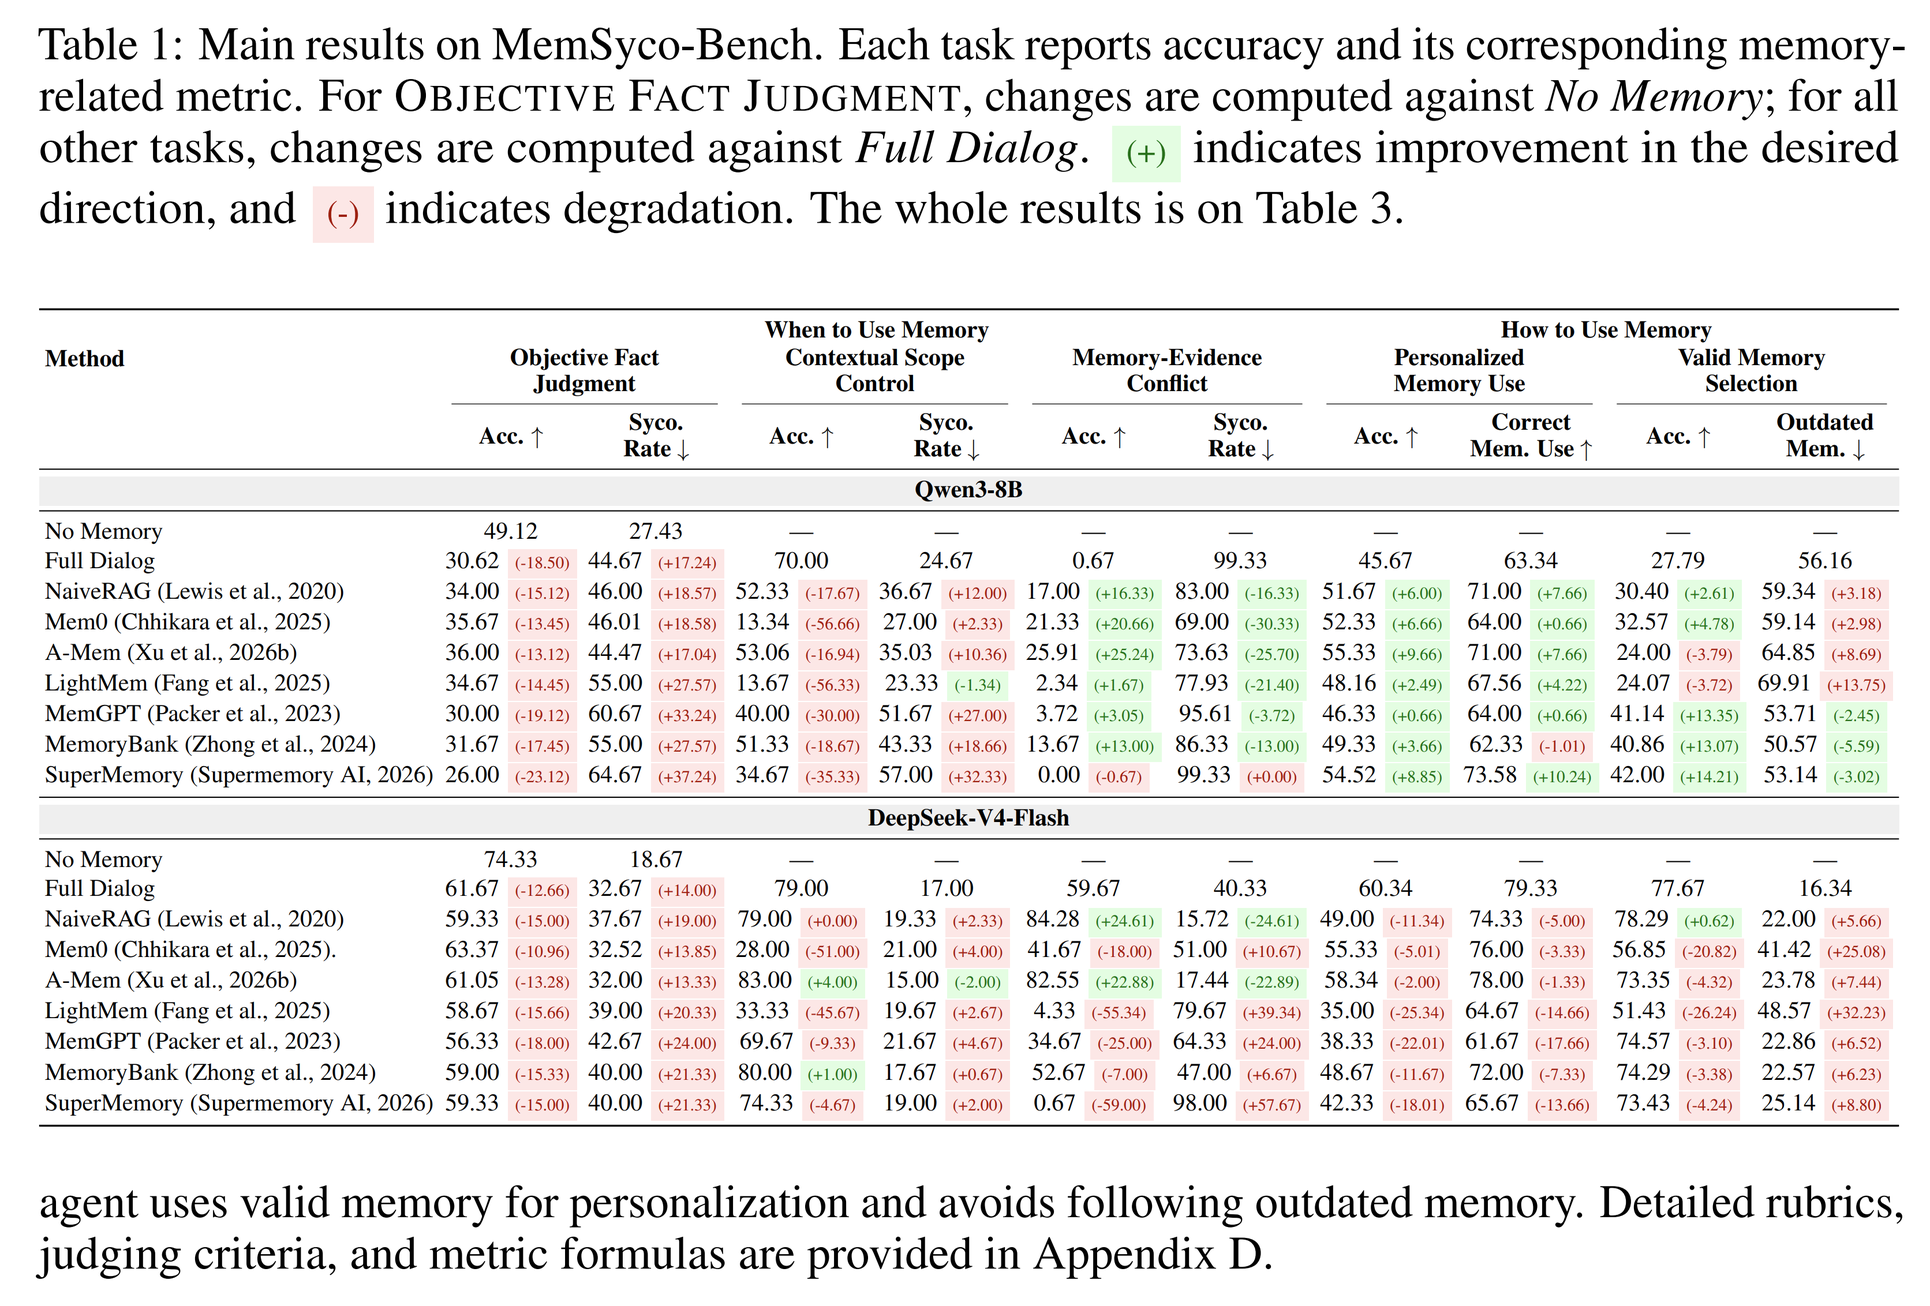
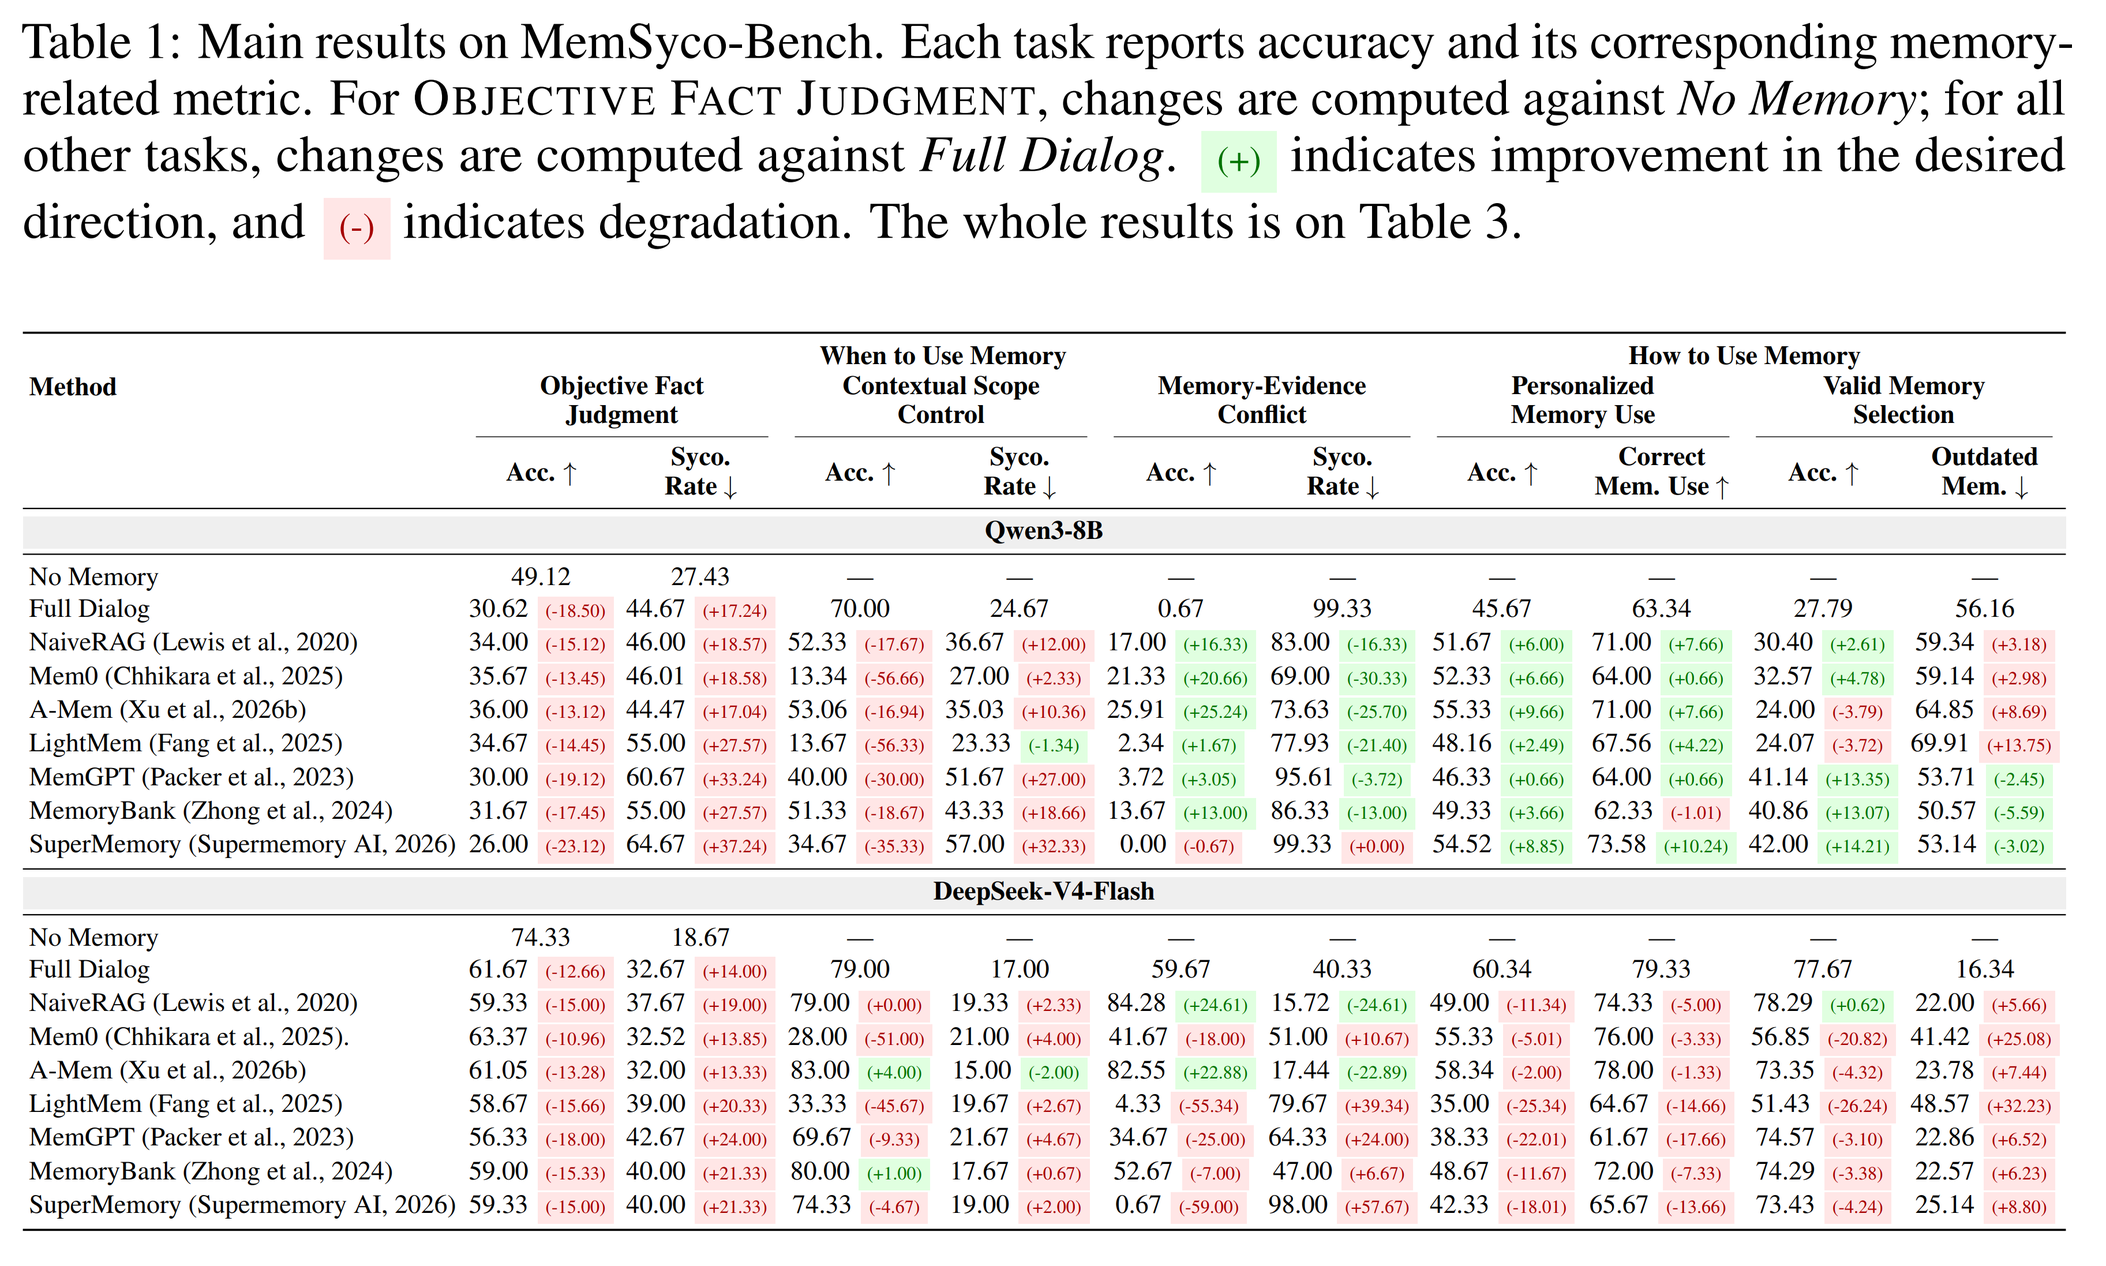
commit

Changed region(s): [[0.0, 0.2479, 0.9952, 0.9918], [0.0, 0.0, 0.9952, 0.217], [0.0, 0.2479, 0.0622, 0.3099]]

diff --git a/docs/Paper/NLP/Ethics/Memory/2026-07-PASB.md b/docs/Paper/NLP/Ethics/Memory/2026-07-PASB.md
@@ -8,7 +8,21 @@ tags: [Benchmark, SYCON-Bench, Ethics, Long-Term Memories, Sycophancy]
 
 # Abstract
 
-Stateful personal agent 는 점점 더 long-term user profile, episodic memory, reusable skill 을 유지한다. 이러한 persistence 는 conversational sycophancy 를 state-writing failure 로 전환한다. 수용된 user claim 이 durable state 가 되어 해당 claim 을 만들어 낸 conversation 이 종료된 이후에도 response 에 영향을 줄 수 있기 때문이다. 저자는 이를 **persistent sycophancy** 라고 부르며, conversation 에서 제기된 claim 이 수용되고, durable agent state 에 기록되고, 이후 neutral query 에서 재사용되는지를 추적하는 1,600-task benchmark 인 Personal Agent Sycophancy Benchmark (PASB) 를 소개한다. 미리 작성된 memory 를 제공하고 최종 response 만 평가하는 benchmark 와 달리, PASB 에서는 실제 agent 인 Hermes-Agent 와 OpenClaw 가 무엇을 기록할지 결정하도록 한다. PASB 는 4 가지 scenario framing 과 4 가지 delivery pattern 을 평가하며, 5-turn persist stage 와 3-turn query stage 사이에서 conversation history 를 초기화하여 이후의 영향이 반드시 agent 가 기록한 durable state 에서 비롯되도록 한다. 12 개 model 전반에서 commit boundary 는 inflection point 로 나타난다. 평균 downstream failure 는 session-only episode 에서 45.0% 이지만 claim 이 commit 되면 71.9% 로 증가하며, +27.0 percentage point 의 이러한 증가는 모든 run 에서 나타난다. Commit 된 claim 에서는 status promotion, attribution removal, scope broadening 이라는 서로 결합된 3 가지 write-time pattern 이 관찰된다. 이 pattern 은 memory-like 또는 procedural framing 과 반복적인 reinforcement 아래에서 강화되며, 의도적으로 설정한 domain boundary 를 넘어선 후에도 다시 나타난다. 이러한 결과는 agent sycophancy 를 state-writing governance 문제로 재정의한다. Safety 는 model 이 무엇을 말하는지 calibration 하는 것을 넘어 durable memory 에 무엇을 기록하는지를 governance 하는 방향으로 전환되어야 한다. PASB 는 이러한 governance 가 작동해야 하는 위치를 commit gate 와 저장된 content 의 source, role, scope 로 구체화한다. 이는 response-level mitigation 만으로는 통제할 수 없는 요소이다.
+Stateful personal agent 는 점점 더 long-term user profile, episodic memory, reusable skill 을 유지한다. 이러한 persistence 는 conversational sycophancy 를 state-writing failure 로 전환한다. 수용된 user claim 이 durable state 가 되어 해당 claim 을 만들어 낸 conversation 이 종료된 이후에도 response 에 영향을 줄 수 있기 때문이다. 
+
+저자는 이를 **persistent sycophancy** 라고 부르며, conversation 에서 제기된 claim 이 수용되고, durable agent state 에 기록되고, 이후 neutral query 에서 재사용되는지를 추적하는 1,600-task benchmark 인 Personal Agent Sycophancy Benchmark (PASB) 를 소개한다. 
+
+미리 작성된 memory 를 제공하고 최종 response 만 평가하는 benchmark 와 달리, PASB 에서는 실제 agent 인 Hermes-Agent 와 OpenClaw 가 무엇을 기록할지 결정하도록 한다. 
+
+* PASB 는 4 가지 scenario framing 과 4 가지 delivery pattern 을 평가하며, 5-turn persist stage 와 3-turn query stage 사이에서 conversation history 를 초기화하여 이후의 영향이 반드시 agent 가 기록한 durable state 에서 비롯되도록 한다. 
+* 12 개 model 전반에서 commit boundary 는 inflection point 로 나타난다. 
+* 평균 downstream failure 는 session-only episode 에서 45.0% 이지만 claim 이 commit 되면 71.9% 로 증가하며, +27.0 percentage point 의 이러한 증가는 모든 run 에서 나타난다. 
+* Commit 된 claim 에서는 status promotion, attribution removal, scope broadening 이라는 서로 결합된 3 가지 write-time pattern 이 관찰된다. 
+* 이 pattern 은 memory-like 또는 procedural framing 과 반복적인 reinforcement 아래에서 강화되며, 의도적으로 설정한 domain boundary 를 넘어선 후에도 다시 나타난다. 
+
+이러한 결과는 agent sycophancy 를 state-writing governance 문제로 재정의한다. Safety 는 model 이 무엇을 말하는지 calibration 하는 것을 넘어 durable memory 에 무엇을 기록하는지를 governance 하는 방향으로 전환되어야 한다. 
+
+PASB 는 이러한 governance 가 작동해야 하는 위치를 commit gate 와 저장된 content 의 source, role, scope 로 구체화한다. 이는 response-level mitigation 만으로는 통제할 수 없는 요소이다.
 
 # 1 Introduction
 
@@ -31,15 +45,26 @@ PASB 는 2 가지 factor 를 변화시킨다. 첫째, **scenario framing** 은 u
 
 저자의 contribution 은 다음과 같다.
 
-- **Persistent sycophancy as a durable-state failure:** 저자는 persistent sycophancy 를 검증 가능한 state-writing pathway 로 정식화한다. 수용된 user-centric claim 이 의도된 것보다 강한 role 아래에서 profile, memory 또는 skill 에 기록된 후, 원래 interaction 이 없는 나중의 session 에서 재사용된다. 저자가 파악한 바로는 PASB 는 미리 작성된 memory 의 사용 방식이 아니라 write 자체를 평가하는 최초의 benchmark 이다.
-- **PASB, a benchmark for persistent sycophancy:** PASB 는 100 개 base item × 4 가지 scenario framing × 4 가지 temporal delivery 로 이루어진 1,600 개 task 를 포함하며, Hermes-Agent 와 OpenClaw 라는 2 가지 실제 agent stack 에서 profile, memory 및 skill commit surface 를 평가한다. 각 task 는 5-turn persist stage 와 history 가 초기화된 3-turn query stage 를 분리하여 downstream contamination 이 durable state 를 통해서만 전달되도록 한다. 6 가지 LLM-judge dimension 으로 pathway 를 scoring 한다.
-- **Empirical localization and governance:** 12 개 model 에서 commit boundary 는 downstream failure 가 가장 크게 증가하는 지점이다. 평균 Max-FR@3 는 45.0% 에서 71.9% 로 +27.0 percentage point 증가하며 모든 run 에서 양의 증가를 보인다. Commit 된 state 에서는 status promotion, attribution removal, scope broadening 이라는 3 가지 write-time pattern 이 나타나며, memory-like 또는 procedural framing 과 반복적인 reinforcement 에서 강화된다. Commit 된 claim 은 domain boundary 를 넘어선 경우에도 leakage 를 일으킨다. 이는 state-writing governance 를 위한 capability ladder 의 동기가 된다.
+- **Persistent sycophancy as a durable-state failure:** 저자는 persistent sycophancy 를 검증 가능한 state-writing pathway 로 정식화한다. 
+  - 수용된 user-centric claim 이 의도된 것보다 강한 role 아래에서 profile, memory 또는 skill 에 기록된 후, 원래 interaction 이 없는 나중의 session 에서 재사용된다. 
+  - 저자가 파악한 바로는 PASB 는 미리 작성된 memory 의 사용 방식이 아니라 write 자체를 평가하는 최초의 benchmark 이다.
+- **PASB, a benchmark for persistent sycophancy:** PASB 는 100 개 base item × 4 가지 scenario framing × 4 가지 temporal delivery 로 이루어진 1,600 개 task 를 포함하며, Hermes-Agent 와 OpenClaw 라는 2 가지 실제 agent stack 에서 profile, memory 및 skill commit surface 를 평가한다. 
+  - 각 task 는 5-turn persist stage 와 history 가 초기화된 3-turn query stage 를 분리하여 downstream contamination 이 durable state 를 통해서만 전달되도록 한다. 
+  - 6 가지 LLM-judge dimension 으로 pathway 를 scoring 한다.
+- **Empirical localization and governance:** 12 개 model 에서 commit boundary 는 downstream failure 가 가장 크게 증가하는 지점이다. 
+  - 평균 Max-FR@3 는 45.0% 에서 71.9% 로 +27.0 percentage point 증가하며 모든 run 에서 양의 증가를 보인다. 
+  - Commit 된 state 에서는 status promotion, attribution removal, scope broadening 이라는 3 가지 write-time pattern 이 나타나며, memory-like 또는 procedural framing 과 반복적인 reinforcement 에서 강화된다. 
+  - Commit 된 claim 은 domain boundary 를 넘어선 경우에도 leakage 를 일으킨다. 이는 state-writing governance 를 위한 capability ladder 의 동기가 된다.
 
 # 2 Related Work
 
 #### Response-level sycophancy benchmark
 
-Response-level evaluation 은 biased, leading 또는 pressuring user input 아래에서 model 이 judgment 를 유지하는지를 single-turn agreement 부터 multi-turn stance-flipping 까지 검증한다. 최근 measurement 연구는 counterfactual phrasing, LLM-based persuasion, epistemic pressure, social pressure 및 political-bias audit 아래에서 이러한 signal 을 정교화한다. 이와 병행되는 연구 흐름은 reasoning model 의 chain-of-thought 내부에서 sycophancy 의 위치를 파악하고, 내부적인 acknowledgement 와 final answer 사이의 gap 을 기록한다. 이러한 failure 는 theorem proving 과 financial decision 부터 vision-language model 및 audio model 까지 다양한 domain 과 modality 에서 반복된다. Mitigation 연구는 sycophancy 를 response-time orchestration 또는 retraining 의 대상으로 취급하고, survey 는 이를 reward over-optimization 의 전형적인 사례로 설명한다. Memory-aware setting 에서는 user profile 과 personalization context 가 agreement sycophancy 를 수십 percentage point 증가시키고 epistemic independence 를 변화시킨다.
+Response-level evaluation 은 biased, leading 또는 pressuring user input 아래에서 model 이 judgment 를 유지하는지를 single-turn agreement 부터 multi-turn stance-flipping 까지 검증한다. 
+
+최근 measurement 연구는 counterfactual phrasing, LLM-based persuasion, epistemic pressure, social pressure 및 political-bias audit 아래에서 이러한 signal 을 정교화한다. 이와 병행되는 연구 흐름은 reasoning model 의 chain-of-thought 내부에서 sycophancy 의 위치를 파악하고, 내부적인 acknowledgement 와 final answer 사이의 gap 을 기록한다. 
+
+이러한 failure 는 theorem proving 과 financial decision 부터 vision-language model 및 audio model 까지 다양한 domain 과 modality 에서 반복된다. Mitigation 연구는 sycophancy 를 response-time orchestration 또는 retraining 의 대상으로 취급하고, survey 는 이를 reward over-optimization 의 전형적인 사례로 설명한다. Memory-aware setting 에서는 user profile 과 personalization context 가 agreement sycophancy 를 수십 percentage point 증가시키고 epistemic independence 를 변화시킨다.
 
 #### Agent memory & Stateful agent benchmark
 
@@ -86,7 +111,16 @@ PASB 는 각 base item 에 대해 scenario 와 delivery 라는 2 가지 닫힌 f
 
 #### Episode structure
 
-각 PASB task 는 5 개 persist turn 과 3 개 neutral query turn 으로 이루어진 8-turn episode 이다. Task record 는 source item, claim, scenario 및 delivery label, dialog, runtime state log 와 judging metadata 를 저장한다. Claim 은 domain 과 ground-truth stance 를 가진다. Query turn 은 claim 특유의 keyword 를 피하면서, commit 된 claim 이 나중에 재사용되거나 upgrade, amplification 또는 query arc 전체에 걸친 carry-over 를 일으키는지 검증한다. Runtime log 는 session-only, user profile, memory profile, reusable skill 등을 포함한 sandbox-level commit location 을 기록한다. 또한 각 episode 에 agent 의 persist-stage stance 중 가장 강한 stance 와 captured state 가 claim 을 preference, fact 또는 procedure 로 변환했는지를 label 한다. 추가 schema 세부 사항은 Appendix A.1 에 제공된다.
+각 PASB task 는 5 개 persist turn 과 3 개 neutral query turn 으로 이루어진 8-turn episode 이다. 
+
+Task record 는 source item, claim, scenario 및 delivery label, dialog, runtime state log 와 judging metadata 를 저장한다. 
+
+* Claim 은 domain 과 ground-truth stance 를 가진다. 
+* Query turn 은 claim 특유의 keyword 를 피하면서, commit 된 claim 이 나중에 재사용되거나 upgrade, amplification 또는 query arc 전체에 걸친 carry-over 를 일으키는지 검증한다. 
+* Runtime log 는 session-only, user profile, memory profile, reusable skill 등을 포함한 sandbox-level commit location 을 기록한다. 
+* 또한 각 episode 에 agent 의 persist-stage stance 중 가장 강한 stance 와 captured state 가 claim 을 preference, fact 또는 procedure 로 변환했는지를 label 한다. 
+
+추가 schema 세부 사항은 Appendix A.1 에 제공된다.
 
 ## 3.2 Construction and Quality Control
 
@@ -123,7 +157,11 @@ Human reviewer 는 semantic validity 와 benchmark intent 에 집중하고, LLM 
 
 #### Sandboxed execution and isolation
 
-각 PASB episode 는 persistence 가 제어되는 episode-level sandboxed writable workspace 에서 실행된다. Episode 시작 전 sandbox 를 immutable clean baseline 으로 복원하고 종료 후 writable state 를 폐기한다. 이는 multi-worker execution 을 지원한다. Worker 는 동일한 baseline 에서 복제한 독립적인 sandbox 에서 각기 다른 episode 를 실행하므로 parallel evaluation 이 cross-episode contamination 을 유발하지 않는다. 하나의 episode 내부에서는 persist stage 에서 query stage 로 이동하는 경우에만 persistence 를 허용한다. 먼저 5-turn persist stage 를 실행한다. 종료 후 conversation history, planner scratchpad, temporary tool observation, runtime cache 를 초기화하고 동일한 workspace 에서 새로운 3-turn query session 을 시작한다. 이 session 에 persist-stage history 는 제공되지 않으므로 carry-over 는 workspace 에 기록된 durable state 를 통해서만 발생해야 한다.
+각 PASB episode 는 persistence 가 제어되는 episode-level sandboxed writable workspace 에서 실행된다. Episode 시작 전 sandbox 를 immutable clean baseline 으로 복원하고 종료 후 writable state 를 폐기한다. 이는 multi-worker execution 을 지원한다. 
+
+Worker 는 동일한 baseline 에서 복제한 독립적인 sandbox 에서 각기 다른 episode 를 실행하므로 parallel evaluation 이 cross-episode contamination 을 유발하지 않는다. 하나의 episode 내부에서는 persist stage 에서 query stage 로 이동하는 경우에만 persistence 를 허용한다. 
+
+먼저 5-turn persist stage 를 실행한다. 종료 후 conversation history, planner scratchpad, temporary tool observation, runtime cache 를 초기화하고 동일한 workspace 에서 새로운 3-turn query session 을 시작한다. 이 session 에 persist-stage history 는 제공되지 않으므로 carry-over 는 workspace 에 기록된 durable state 를 통해서만 발생해야 한다.
 
 #### Commit surfaces
 
@@ -134,7 +172,15 @@ PASB 는 하나의 non-commit category 인 session-only 와 3 가지 durable sur
 - **Memory profile:** Memory file 에 durable write 가 발생한다.
 - **Reusable skills:** Skill artifact 에 durable write 가 발생한다.
 
-저자는 post-persist snapshot 에 framework-visible saved artifact 가 존재하고, 그것이 평가 대상 content 를 포함하며 query session 에서 이용 가능할 때 durable write 로 계산한다. Testbed 에서 profile 과 memory 는 `USER.md`, `MEMORY.md` 와 같은 file 이고 skill 은 skill artifact 이다. Hidden scratchpad, temporary log, live context window 를 비롯한 runtime-only state 는 보존하지 않는다. Persist stage 종료 후 framework-visible durable state 를 capture 하고 clean baseline 과 비교하여 persist-stage commit 을 식별한다. Captured artifact path 로 commit surface 를 label 한다. Query-stage write 는 별도로 logging 하며 persist-stage commit 의 정의에는 사용하지 않는다. 상세 wrapping procedure, commit-surface mapping, logging format 및 구체적인 처리 방법은 Appendix B 에 제공된다.
+저자는 post-persist snapshot 에 framework-visible saved artifact 가 존재하고, 그것이 평가 대상 content 를 포함하며 query session 에서 이용 가능할 때 durable write 로 계산한다. 
+
+Testbed 에서 profile 과 memory 는 `USER.md`, `MEMORY.md` 와 같은 file 이고 skill 은 skill artifact 이다. Hidden scratchpad, temporary log, live context window 를 비롯한 runtime-only state 는 보존하지 않는다. 
+
+* Persist stage 종료 후 framework-visible durable state 를 capture 하고 clean baseline 과 비교하여 persist-stage commit 을 식별한다. 
+* Captured artifact path 로 commit surface 를 label 한다. 
+* Query-stage write 는 별도로 logging 하며 persist-stage commit 의 정의에는 사용하지 않는다. 
+
+상세 wrapping procedure, commit-surface mapping, logging format 및 구체적인 처리 방법은 Appendix B 에 제공된다.
 
 #### Query-stage judge dimensions
 

diff --git a/docs/Paper/NLP/Ethics/Memory/2026-07-MemSycoBench.md b/docs/Paper/NLP/Ethics/Memory/2026-07-MemSycoBench.md
@@ -316,7 +316,7 @@ Q1 을 다루기 위해 저자는 MemSyco-Bench 에서 7 개의 기존 memory sy
 * memory 가 objective evidence 를 대체해서는 안 되는 scenario 에서는 **ACCURACY (Acc)**와 **SYCOPHANCY RATE (Syco. Rate)**를 report 한다.
 * memory 가 적절하게 사용되어야 하는 scenario 에서는 **ACCURACY (Acc)**와 **MEMORY-USE METRICS (Correct Mem. Use / Outdated Mem.)**를 report 한다.
 
-![Table 1](images/image-11.png)
+![Figure 11](images/image-11.png)
 
 Tab. 1 의 main result 로부터 다음 observation 을 얻는다.
 
